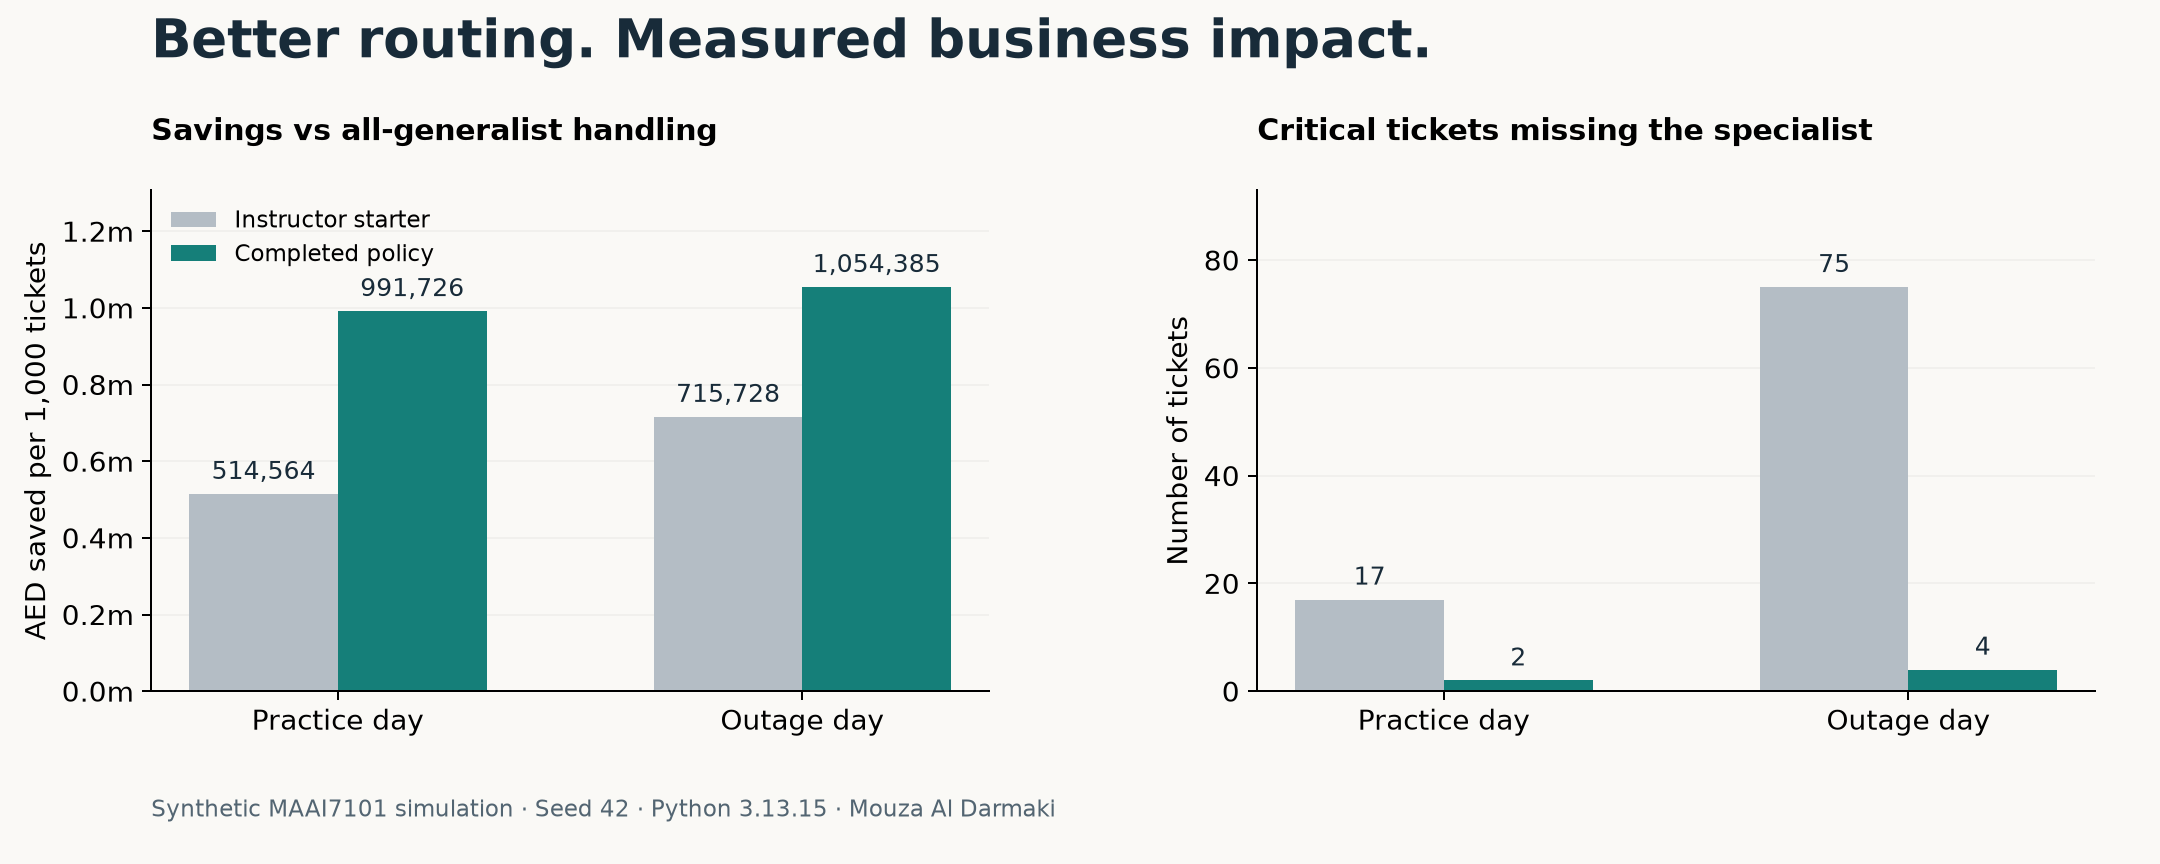
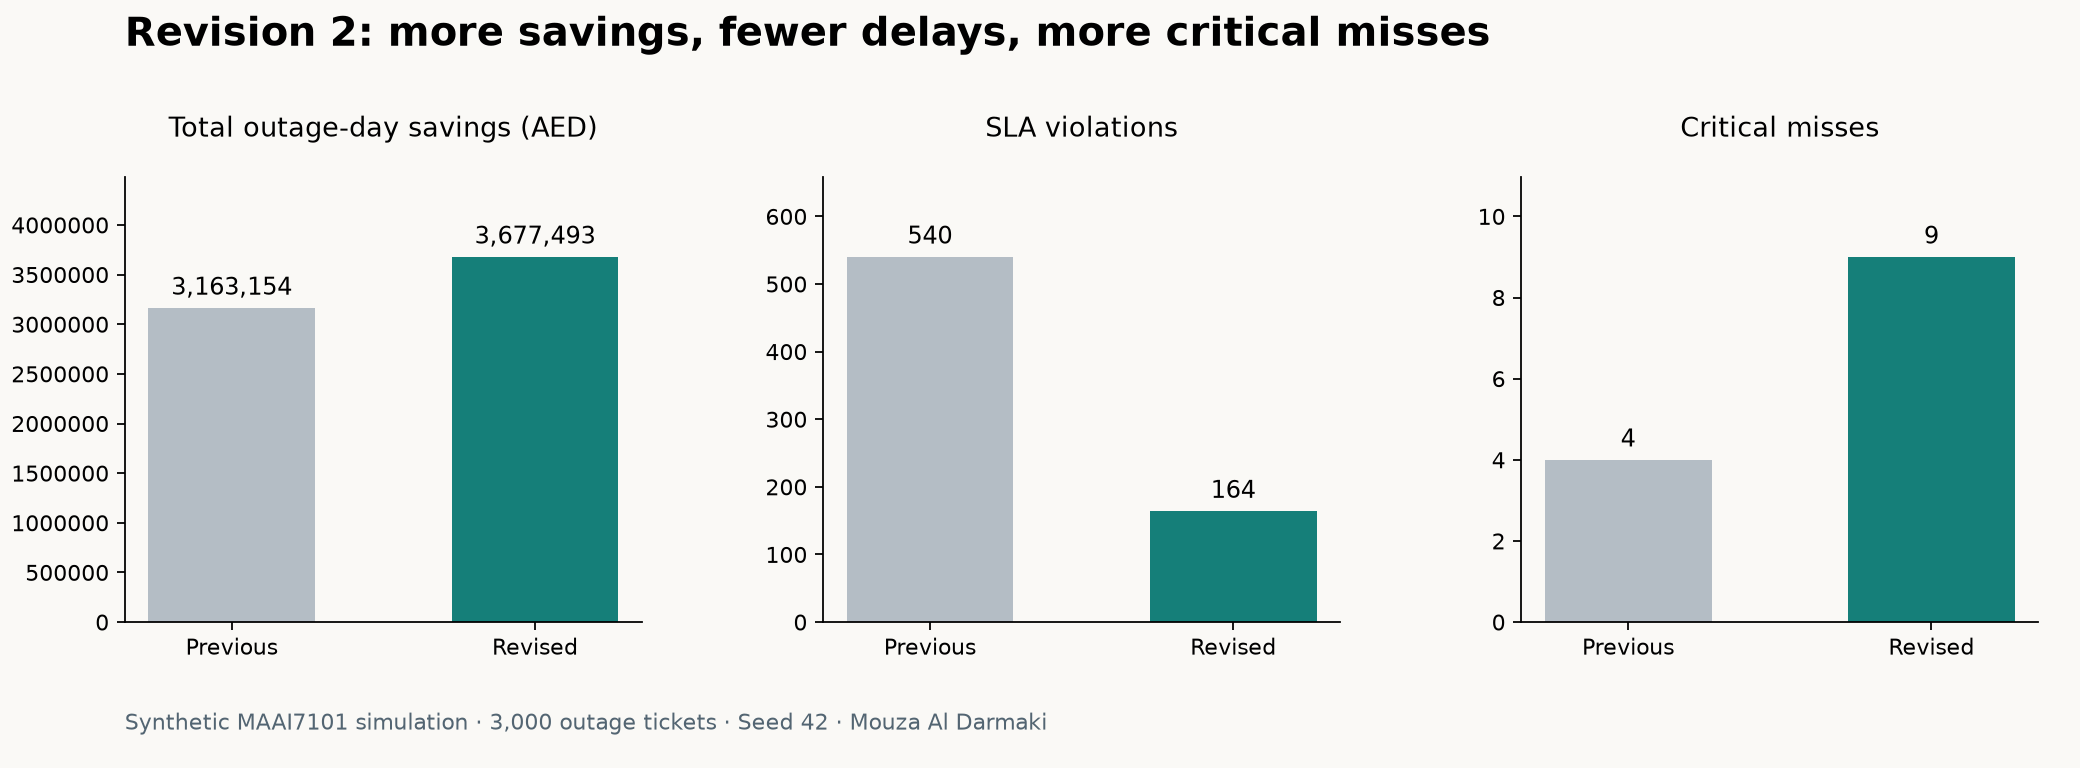
Improve outage routing: +AED 514,339 savings and document safety tradeoff

diff --git a/policy.py b/policy.py
@@ -1,8 +1,4 @@
-"""Cost-aware ticket triage policy — Mouza Al Darmaki.
-
-AI-assisted implementation for MAAI7101 Lab 9, based on the instructor's
-published decision API. Requires the separately obtained instructor lab.
-"""
+"""AI-assisted MAAI7101 Lab 9 policy — Mouza Al Darmaki. Requires the instructor lab."""
 from __future__ import annotations
 
 import numpy as np
@@ -86,9 +82,7 @@ def choose_labels(pool_df, proba_df, budget, seed):
 def wants_oracle(ticket, proba, context):
     if int(context.get("oracle_remaining", 0)) <= 0:
         return False
-    if _outage_ticket(ticket, context):
-        return False  # The mandatory final override cannot use this information.
-    p = _prior(proba)
+    p = _decision_prior(ticket, proba, context)
     joint = p[:, None] * _expert_matrix(ticket)
     after = 0.0
     for j in range(4):
@@ -100,7 +94,7 @@ def wants_oracle(ticket, proba, context):
 
 
 def route(ticket, proba, context):
-    p = _prior(proba)
+    p = _decision_prior(ticket, proba, context)
     answer = context.get("oracle_label")
     if answer in _LABELS:
         posterior = p * _expert_matrix(ticket)[:, _LABELS.index(answer)]
@@ -115,8 +109,21 @@ def _outage_ticket(ticket, context):
             and ticket.get("symptom") in ("network_down", "slow_data"))
 
 
-def apply_business_rules(ticket, action, context):
-    # Regional network symptoms matter even when the outage flag is missing.
+def _decision_prior(ticket, proba, context):
+    p = _prior(proba)
     if _outage_ticket(ticket, context):
-        return "l2"
+        # Conservative prior-shift adjustment, not an automatic specialist referral.
+        # Fixed before evaluation; does not inspect hidden labels.
+        p[3] *= 3.0
+        p /= p.sum()
+    return p
+
+
+def apply_business_rules(ticket, action, context):
+    # An outage flag can be missing. Prevent risky mass automation while allowing
+    # the cost-aware route to reserve scarce specialists for likely criticals.
+    if (_outage_ticket(ticket, context) and action == "automate"
+            and float(ticket.get("affected_users", 0)) >= 100
+            and float(ticket.get("complexity", 0)) > 0.55):
+        return "l1"
     return action

diff --git a/README.md b/README.md
@@ -8,11 +8,11 @@ A classifier becomes useful when its predictions lead to better decisions. This 
 
 ## Measured outcome
 
-On the supplied outage-day simulation, the policy saved **AED 1,054,385 per 1,000 tickets**, compared with **AED 715,728** for the instructor's starter policy. Across the full 3,000-ticket day, that is **AED 3,163,154 in simulated total savings** relative to sending every ticket to a generalist.
+On the supplied outage-day simulation, the policy saved **AED 1,225,831 per 1,000 tickets**, compared with **AED 715,728** for the instructor's starter policy. Across the full 3,000-ticket day, that is **AED 3,677,493 in simulated total savings** relative to sending every ticket to a generalist.
 
-Critical tickets that never reached a specialist fell from **75 to 4**. None of the regional network critical tickets missed the specialist desk.
+Critical tickets that never reached a specialist fell from **75 to 9**. Five regional network critical tickets missed the specialist desk.
 
-These are different units: **AED 1.05 million per 1,000** and **AED 3.16 million total** describe the same run. They are simulated cost savings, not revenue or measured real-world savings.
+These are different units: **AED 1.23 million per 1,000** and **AED 3.68 million total** describe the same run. They are simulated cost savings, not revenue or measured real-world savings.
 
 ## What I worked on
 
@@ -22,13 +22,15 @@ The five policy entry points implement:
 - **Cost-aware routing:** choose the desk with minimum expected cost using current prices and queues.
 - **Expert escalation:** pay for a label only when its expected decision value exceeds its fee; account for the expert being wrong.
 - **Label selection:** spend the 400-label budget on cost-weighted uncertainty, with coverage across customer segments.
-- **Outage safeguards:** send regional network symptoms to specialists even when the outage flag is missing.
+- **Outage safeguards:** adjust regional critical risk and prevent risky mass automation, while preserving cost-aware specialist allocation.
 
 I completed this course exercise with AI assistance for implementation, verification, environment troubleshooting, and documentation. The measured results and policy are inspectable here. I do not claim to have authored the instructor's simulator, assignment, or datasets.
 
 ## A tradeoff worth reporting
 
-The outage safeguard is conservative. It reduces critical misses, but specialist queues grow: SLA violations increase from **292 to 540**, and average specialist waiting time increases from **316 to 927 minutes**. Savings improve under the published prices, but the policy is not a proven optimum. A next iteration would evaluate a capacity-aware safeguard on a separate validation set before scoring a fresh holdout.
+Compared with the previously published policy, outage-day total savings increased from **AED 3,163,154 to AED 3,677,493**, an improvement of **AED 514,339**. SLA violations fell from **540 to 164**, but critical misses increased from **4 to 9** (regional network misses: **0 to 5**). This is a cost improvement with a safety tradeoff, not a win on every metric. The revised policy remains a single global HistGradientBoosting model; a three-model alternative was tested and saved less on the official day and two validation days. See [what changed](CHANGELOG.md).
+
+The official evaluation day had already been observed. Separate validation seeds 903/904 compared candidates; a subsequent independent seed 905 check showed savings increasing from AED 2,884,403 to AED 3,381,216, with critical misses increasing 3 to 13 and SLA violations falling 525 to 175. These checks use the same synthetic generator and do not establish real-world performance.
 
 ## Explore the work
 

diff --git a/APPROACH.md b/APPROACH.md
@@ -14,10 +14,10 @@ Pool selection combines entropy, customer cost scale, and expert reliability. A 
 
 ## Guard against a known operational shift
 
-The published outage scenario identifies regional network failures, including missing outage flags. A final business rule sends matching symptoms to specialists. This makes the rule interpretable, but it can overload scarce capacity. The reported queue and SLA deterioration is part of the result, not a hidden caveat.
+The published outage scenario identifies regional network failures even when outage flags are missing. The revised policy multiplies regional critical probability by three, renormalizes, and evaluates expected desk costs using queues. A final guard escalates automated decisions to a generalist for complex regional tickets affecting at least 100 users. Live expert queries are now permitted for outage tickets when their expected value exceeds the fee. This replaces the earlier unconditional specialist referral, reducing queue penalties at the expense of more critical misses.
 
 ## Evidence and limitations
 
-The policy was implemented before scoring the supplied practice and outage days. Those days were not used to tune the policy, but they have now been observed; a new optimization should use a distinct validation procedure and a fresh holdout. Probabilities are not guaranteed calibrated under arbitrary shifts. Expert reliability follows the lab specification rather than an independently estimated noise model. Offline label selection is a heuristic, not an optimal acquisition policy.
+The policy was implemented before scoring the supplied practice and outage days. The first version preceded scoring. This revision was evaluated after the official days had been observed; validation seeds 903/904 compared candidates and seed 905 was checked after selection. Probabilities are not guaranteed calibrated under arbitrary shifts. Expert reliability follows the lab specification rather than an independently estimated noise model. Offline label selection is a heuristic, not an optimal acquisition policy.
 
 Reference verification covered budgets, unique positional indices, repeatable selection, valid actions, exhausted live-expert budgets, missing outage flags, starter improvement on both days, and preservation of instructor source files. All outcomes are from a deterministic synthetic teaching simulator, not a production deployment.

diff --git a/CHANGELOG.md b/CHANGELOG.md
@@ -1,0 +1,27 @@
+# Revision 2 — 25 October 2026
+
+## What changed
+
+- Replaced unconditional regional-outage specialist referral with expected-cost allocation and a fixed 3x regional critical-probability adjustment.
+- Added a generalist guard for complex regional network tickets affecting at least 100 users.
+- Enabled value-of-information expert purchases during the outage.
+- Kept the weighted global HistGradientBoostingClassifier, active label selection, instructor API and prices unchanged.
+
+## Before and after on the official outage day
+
+Total simulated savings: AED 3,163,154 → AED 3,677,493 (+AED 514,339).
+Savings per 1,000 tickets: AED 1,054,384.67 → AED 1,225,831.
+SLA violations: 540 → 164. Critical misses: 4 → 9. Regional network critical misses: 0 → 5.
+Practice-day results are unchanged. The new policy improves cost but sacrifices some critical-case coverage.
+
+## Models compared
+
+Selected: one global HistGradientBoostingClassifier for consumer, SME, enterprise and government.
+
+Alternative: global HistGradientBoostingClassifier plus two separately fitted CatBoostClassifier experts, one for enterprise and one for government. Each expert retained all training examples with 3x weight on its segment; segment predictions blended global and expert probabilities equally. This is customer-segment routing, not arbitrary chronological batches.
+
+The alternative saved AED 3,668,743 on the official outage day, below the selected policy's AED 3,677,493. On validation seeds 903/904 it also saved less: AED 3,522,643 / 3,076,399 versus AED 3,528,057 / 3,086,257. More models did not improve the measured objective in this comparison. The alternative is retained in the private lab archive, not used by policy.py.
+
+## Independent check and limitations
+
+After selection, new seed 905: previous policy saved AED 2,884,403; revised policy AED 3,381,216. Critical misses rose 3 → 13; SLA violations fell 525 → 175. Official evaluation days were already observed, so their improved score is not an untouched test estimate. All figures come from the teaching simulator. No hidden labels enter policy decisions; no claim of optimality or real deployment is made.
